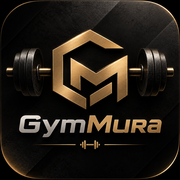
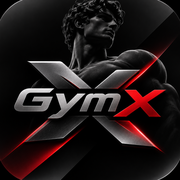
Add files via upload

diff --git a/index.html b/index.html
@@ -9,8 +9,9 @@
 <link href="https://diper12.github.io/Gym-plan/icon-180.png" rel="apple-touch-icon"/>
 <link href="https://diper12.github.io/Gym-plan/icon-192.png" rel="icon" type="image/png"/>
 <link href="https://diper12.github.io/Gym-plan/manifest.webmanifest" rel="manifest"/>
-<meta content="GymMura" name="apple-mobile-web-app-title"/>
+<meta content="GymX" name="apple-mobile-web-app-title"/>
 <title>План набора массы</title>
+<link href="https://fonts.googleapis.com/css2?family=Noto+Serif:ital,wght@1,500;1,600&display=swap" rel="stylesheet">
 <link href="https://fonts.googleapis.com" rel="preconnect"/>
 <link crossorigin="" href="https://fonts.gstatic.com" rel="preconnect"/>
 <link href="https://fonts.googleapis.com/css2?family=Manrope:wght@400;500;700;800&amp;family=Amiri:wght@400;700&amp;family=Unbounded:wght@700&amp;display=swap" rel="stylesheet"/>
@@ -125,12 +126,17 @@ a[x-apple-data-detectors]{color:inherit!important;text-decoration:none!important
 .consent input{margin-top:4px;width:18px;height:18px;flex:none}
 .consent a{color:var(--ac);font-weight:700}
 .signout{margin-top:14px}
-</style>
+.wgrid{display:grid;grid-template-columns:repeat(auto-fill,minmax(138px,1fr));gap:10px;margin-top:8px}
+.wtile{background:linear-gradient(160deg,rgba(255,255,255,.07),rgba(0,0,0,.28));border:1px solid var(--bd);border-radius:16px;padding:12px;display:flex;flex-direction:column;gap:4px;align-items:flex-start}
+.wtile small{color:var(--mu);font-size:12px}
+.wtile b{font-family:'Unbounded','Manrope',sans-serif;font-size:20px;letter-spacing:-.01em;margin-bottom:4px}
+.wtile .pill{font-size:12px;padding:5px 12px}
+#greet.en,.top h1.gr.en{font-family:'Noto Serif',Georgia,serif;font-style:italic;font-weight:600;letter-spacing:0;font-size:25px!important}</style>
 </head>
 <body>
 <section id="auth" class="auth">
 <div class="glass auth-card">
-<h1 class="gr">GymMura</h1>
+<h1 class="gr">GymX</h1>
 <p class="mu" id="aus">Подключаю облако…</p>
 <button class="btn w" id="ab" type="button" disabled>Войти через Google</button>
 <label id="csw" class="consent" hidden><input type="checkbox" id="cs"><span>Я прочитал(а) <a href="privacy.html">политику конфиденциальности</a> и согласен(на) на обработку перечисленных в ней данных.</span></label>
@@ -139,7 +145,7 @@ a[x-apple-data-detectors]{color:inherit!important;text-decoration:none!important
 <p class="mu sm" id="chk"></p>
 </div>
 </section>
-<div class="app" hidden><header class="top"><div class="hd"><h1 class="gr" id="greet"><span class="gico" id="gico" hidden><svg viewBox="0 0 24 24" aria-hidden="true"><path d="M6 7v10M18 7v10M3 9v6M21 9v6M6 12h12"/></svg></span><span id="gtxt">Ас-Саляму Алейкум</span></h1><div class="mu" id="sub">Твой план набора массы · <span id="dt"></span></div></div></header><section class="page" id="pg-plan"><section class="glass"><div class="goal"><div class="mu sm">Цель</div><h3>Набор массы</h3><div class="mu">Больше силы. Больше мышц. Лучше ты.</div>
+<div class="app" hidden><header class="top"><div class="hd"><h1 class="gr" id="greet"><span class="gico" id="gico" hidden><svg viewBox="0 0 24 24" aria-hidden="true"><path d="M6 7v10M18 7v10M3 9v6M21 9v6M6 12h12"/></svg></span><span id="gtxt">As Salam Alaikum</span></h1><div class="mu" id="sub">Твой план набора массы · <span id="dt"></span></div></div></header><section class="page" id="pg-plan"><section class="glass"><div class="goal"><div class="mu sm">Цель</div><h3>Набор массы</h3><div class="mu">Больше силы. Больше мышц. Лучше ты.</div>
 <div class="trio"><div class="mini"><span>Текущий вес</span><b id="cw">68 кг</b></div><div class="mini"><span>Целевой вес</span><b id="tg">—</b></div><div class="mini"><span>Срок</span><b id="sr">—</b></div></div></div></section><div class="stats">
 <div class="glass stat"><span class="mu sm">Тренировок в неделю</span><b>4 из 7</b><div class="seg"><i class="on"></i><i class="on"></i><i class="on"></i><i class="on"></i><i></i><i></i><i></i></div></div>
 <div class="glass stat"><span class="mu sm">Калорийность</span><b id="kc">—</b><span class="mu sm">ккал в день</span></div>
@@ -172,16 +178,13 @@ a[x-apple-data-detectors]{color:inherit!important;text-decoration:none!important
 <div class="two" style="margin-top:12px"><div><svg aria-label="График веса" class="ch" id="wch" role="img" viewbox="0 0 320 140"></svg></div>
 <div><svg aria-label="Диаграмма тренировок по неделям" class="ch" id="sch" role="img" viewbox="0 0 320 140"></svg></div></div>
 <div class="mu sm" id="wavg" style="margin-top:6px"></div>
-<div class="lb" style="margin-top:14px">Записи веса</div><div class="mu sm" id="wl">Пока нет записей.</div>
+<div class="lb" style="margin-top:14px">Записи веса</div><div class="wgrid" id="wl">Пока нет записей.</div>
 </section><section class="glass" id="diary"><h2>Дневник</h2>
 <div class="lb">Запись тренировки</div>
 <div class="row"><select aria-label="День" id="ld"></select><button class="btn" id="lb" type="button">Сохранить запись</button></div>
 <textarea aria-label="Запись тренировки" id="lt" placeholder="Например: жим лёжа 40 кг × 8 / 8 / 7 / 6. Кисть: норм"></textarea>
 <div id="ll"></div>
 <div class="mu sm" id="tst" style="margin-top:8px"></div>
-<div class="warn" hidden="" id="bw" style="margin:10px 0"></div>
-<div class="row"><button class="btn o" id="bd" type="button">Скачать копию</button><button class="btn o" id="bc" type="button">Скопировать текст</button><button class="btn o" id="br" type="button">Восстановить</button></div>
-<div hidden="" id="rb"><textarea aria-label="Текст копии" id="rt" placeholder="Вставь сюда текст копии"></textarea><div class="row"><button class="btn o" id="ri" type="button">Загрузить текст</button><button class="btn o" id="rf" type="button">Выбрать файл</button><input accept=".json,application/json" hidden="" id="bf" type="file"/></div></div>
 </section></section><section class="page" id="pg-prof"><section class="glass" id="prof"><h2>Мой профиль</h2>
 <div class="mu sm">Текущий вес и желаемый вес. Остальное приложение посчитает само.</div>
 <div class="row"><input id="pw" placeholder="Текущий вес, кг" step="0.1" type="number"/><input id="pg" placeholder="Желаемый вес, кг" step="0.1" type="number"/></div>
@@ -277,7 +280,7 @@ function draw(){
   if(w.length>1)el('polyline',{points:p.map(function(a){return a.join(',')}).join(' '),fill:'none',stroke:'#e9c7a6','stroke-width':2.5});
   p.forEach(function(a,i){el('circle',{cx:a[0],cy:a[1],r:4,fill:'#e9c7a6'});el('text',{x:a[0],y:a[1]-9,fill:'#f2ece4','font-size':14,'font-weight':700,'text-anchor':'middle'},w[i].kg)})}
  var wl=$('wl');wl.innerHTML=w.length?'':'Пока нет записей.';
- w.slice().reverse().slice(0,8).forEach(function(r){var d=document.createElement('div');d.className='log wrow';var s=document.createElement('span');s.textContent=new Date(r.date+'T00:00:00').toLocaleDateString('ru-RU')+' — '+r.kg+' кг';var x=document.createElement('button');x.type='button';x.className='x pill';x.textContent='Удалить';x.setAttribute('aria-label','Удалить запись веса '+r.kg);x.onclick=function(){if(x.dataset.s==='1'){rm(r.id);return}x.dataset.s='1';x.textContent='Точно удалить?';x.classList.add('arm');setTimeout(function(){if(x.isConnected){x.dataset.s='';x.textContent='Удалить';x.classList.remove('arm')}},4000)};d.appendChild(s);d.appendChild(x);wl.appendChild(d)});
+ w.slice().reverse().forEach(function(r){var t=document.createElement('div');t.className='wtile';var dt=document.createElement('small');dt.textContent=new Date(r.date+'T00:00:00').toLocaleDateString('ru-RU',{day:'numeric',month:'short',year:'numeric'});var kg=document.createElement('b');kg.textContent=r.kg+' кг';var x=document.createElement('button');x.type='button';x.className='x pill';x.textContent='Удалить';x.setAttribute('aria-label','Удалить запись веса '+r.kg);x.onclick=function(){if(x.dataset.s==='1'){rm(r.id);return}x.dataset.s='1';x.textContent='Точно удалить?';x.classList.add('arm');setTimeout(function(){if(x.isConnected){x.dataset.s='';x.textContent='Удалить';x.classList.remove('arm')}},4000)};t.appendChild(dt);t.appendChild(kg);t.appendChild(x);wl.appendChild(t)});
  if(w.length){
   var av=w.map(function(r){var t0=new Date(r.date+'T00:00:00').getTime(),sel=w.filter(function(q){var t1=new Date(q.date+'T00:00:00').getTime();return t1<=t0&&t1>t0-6*864e5});return sel.reduce(function(s,q){return s+q.kg},0)/sel.length});
   el('polyline',{points:av.map(function(v,i){return (w.length>1?28+i*284/(w.length-1):170)+','+Y(v)}).join(' '),fill:'none',stroke:'#f2ece4','stroke-opacity':.55,'stroke-width':2,'stroke-dasharray':'3 4'});
@@ -292,7 +295,7 @@ var last=w[w.length-1];$('cw').textContent=last?last.kg+' кг':(prof?prof.kg+' 
  $('wc').textContent=wt.length+' / 4';$('wt').textContent=mn>=60?Math.floor(mn/60)+' ч '+(mn%60)+' мин':mn+' мин';$('wp').style.width=Math.min(wt.length/4,1)*100+'%';
  var L=rows.filter(function(r){return r.t==='l'}).sort(function(a,b){return b.ts-a.ts}).slice(0,12),box=$('ll');box.innerHTML='';
  L.forEach(function(r){var d=document.createElement('div');d.className='log';var sm=document.createElement('small');sm.textContent=r.day+' · '+new Date(r.ts).toLocaleDateString('ru-RU');var x=document.createElement('button');x.type='button';x.className='x pill';x.textContent='Удалить';x.setAttribute('aria-label','Удалить запись');x.onclick=function(){if(x.dataset.s==='1'){rm(r.id);return}x.dataset.s='1';x.textContent='Точно удалить?';x.classList.add('arm');setTimeout(function(){if(x.isConnected){x.dataset.s='';x.textContent='Удалить';x.classList.remove('arm')}},4000)};sm.appendChild(x);var sp=document.createElement('span');sp.textContent=r.text;d.appendChild(sm);d.appendChild(sp);box.appendChild(d)});
- warn()}
+ if(window.gpBackup)window.gpBackup(rows).catch(function(){});warn()}
 $('pb').onclick=function(){
  var kg=parseFloat($('pw').value.replace(',','.')),g=parseFloat($('pg').value.replace(',','.')),hh=parseFloat($('ph').value),aa=parseInt($('pa').value,10),s=$('ps').value,d=parseInt($('pd').value,10)||4;
  var msg=function(t){$('pm').textContent=t};
@@ -335,22 +338,8 @@ function tick(){var s=st?Math.floor((Date.now()-st)/1000):0,m=Math.floor(s/60);
 $('ts').onclick=function(){if(!st){st=Date.now();try{localStorage.setItem(TK,st)}catch(e){}}else{var min=Math.round((Date.now()-st)/60000);if(min>=1)put({id:'t'+st,t:'t',ts:st,min:min});st=0;try{localStorage.removeItem(TK)}catch(e){}}tick()};
 setInterval(tick,1000);tick();
 
-/* копии */
-function payload(){return JSON.stringify({app:'gym-plan',v:2,at:new Date().toISOString(),rows:rows})}
-function mark(){try{localStorage.setItem(LS+'_bk',String(Date.now()))}catch(e){}warn()}
-function warn(){var b=$('bw'),k=0;try{k=+localStorage.getItem(LS+'_bk')||0}catch(e){}
- if(rows.length&&(!k||Date.now()-k>6048e5)){b.hidden=false;b.textContent=k?'Копия старше 7 дней. Нажми «Скачать копию».':'Резервной копии ещё нет. Нажми «Скачать копию» и сохрани файл.'}else b.hidden=true}
-$('bd').onclick=function(){var a=document.createElement('a');a.href=URL.createObjectURL(new Blob([payload()],{type:'application/json'}));a.download='gym-plan-backup-'+new Date().toISOString().slice(0,10)+'.json';document.body.appendChild(a);a.click();a.remove();mark()};
-$('bc').onclick=function(){var s=payload();if(navigator.clipboard&&navigator.clipboard.writeText){navigator.clipboard.writeText(s).then(function(){mark();$('tst').textContent='Копия скопирована. Вставь её в заметки.'},function(){$('rt').value=s;$('rb').hidden=false})}else{$('rt').value=s;$('rb').hidden=false}};
-$('br').onclick=function(){$('rb').hidden=!$('rb').hidden};
-function imp(s){try{var o=JSON.parse(s);if(!o||!Array.isArray(o.rows))throw 0;var c=0;o.rows.forEach(function(r){if(!r||typeof r.id!=='string')return;
- if(r.t==='w'&&typeof r.date==='string'&&typeof r.kg==='number'&&r.kg>30&&r.kg<200){put({id:r.id,t:'w',date:r.date,kg:r.kg});c++}
- else if(r.t==='l'&&typeof r.ts==='number'&&typeof r.text==='string'){put({id:r.id,t:'l',ts:r.ts,day:String(r.day||'').slice(0,3),text:r.text.slice(0,1500)});c++}
- else if(r.t==='t'&&typeof r.ts==='number'&&typeof r.min==='number'){put({id:r.id,t:'t',ts:r.ts,min:r.min});c++}
- else if(r.t==='p'&&typeof r.kg==='number'&&typeof r.goal==='number'){put({id:'profile',t:'p',kg:r.kg,goal:r.goal,h:r.h||null,a:r.a||null,s:r.s||null,d:r.d||null});c++}});
- $('tst').textContent='Записи восстановлены: '+c+'.';$('rb').hidden=true}catch(e){$('tst').textContent='Не удалось прочитать копию.'}}
-$('ri').onclick=function(){imp($('rt').value)};$('rf').onclick=function(){$('bf').click()};
-$('bf').onchange=function(){var f=this.files[0];if(!f)return;var r=new FileReader();r.onload=function(){imp(r.result)};r.readAsText(f)};
+function warn(){}
+function mark(){}
 try{if(navigator.storage&&navigator.storage.persist)navigator.storage.persist()}catch(e){}
 
 /* вкладки */
@@ -360,7 +349,8 @@ try{if(navigator.storage&&navigator.storage.persist)navigator.storage.persist()}
   order.forEach(function(k){var el=document.getElementById('pg-'+k);if(el)el.hidden=(k!==p)});
   [].forEach.call(document.querySelectorAll('.tabbar button'),function(b){b.setAttribute('aria-selected',String(b.getAttribute('data-p')===p))});
   var nav=document.querySelector('.tabbar');if(nav)nav.style.setProperty('--i',order.indexOf(p));
-  document.getElementById('gtxt').textContent=(p==='plan')?'Ас-Саляму Алейкум':'GymMura';
+  document.getElementById('gtxt').textContent=(p==='plan')?'As Salam Alaikum':'GymX';
+  document.getElementById('greet').classList.toggle('en',p==='plan');
   document.getElementById('gico').hidden=(p==='plan');
   document.getElementById('sub').hidden=(p!=='plan');
   window.scrollTo(0,0);
@@ -406,7 +396,14 @@ try{
  let db;
  try{db=F.initializeFirestore(app,{localCache:F.persistentLocalCache({tabManager:F.persistentMultipleTabManager()})})}catch(e){db=F.getFirestore(app)}
  window.gpSignOut=()=>U.signOut(auth);
- window.gpWipe=async function(){if(!auth.currentUser)return;const s=await F.getDocs(F.collection(db,'users',auth.currentUser.uid,'entries'));await Promise.all(s.docs.map(function(d){return F.deleteDoc(d.ref)}))};
+ window.gpWipe=async function(){if(!auth.currentUser)return;const uid=auth.currentUser.uid;const s=await F.getDocs(F.collection(db,'users',uid,'entries'));await Promise.all(s.docs.map(function(d){return F.deleteDoc(d.ref)}));const bk=await F.getDocs(F.collection(db,'users',uid,'backups'));await Promise.all(bk.docs.map(function(d){return F.deleteDoc(d.ref)}))};
+window.gpBackup=async function(rows){
+ if(!auth.currentUser||!rows||!rows.length)return;
+ const d=new Date(),id=d.getFullYear()+'-'+('0'+(d.getMonth()+1)).slice(-2)+'-'+('0'+d.getDate()).slice(-2),key='gp1_bk_'+auth.currentUser.uid+'_'+id;
+ try{if(localStorage.getItem(key))return}catch(e){}
+ await F.setDoc(F.doc(db,'users',auth.currentUser.uid,'backups',id),{ts:Date.now(),count:rows.length,rows:JSON.stringify(rows)});
+ try{localStorage.setItem(key,'1')}catch(e){}
+};
  $('ab').disabled=false;
  $('ab').onclick=async()=>{
   if(auth.currentUser){await U.signOut(auth);return}

diff --git a/admin.html b/admin.html
@@ -9,7 +9,7 @@
 <link rel="apple-touch-icon" href="icon-180.png">
 <link rel="icon" type="image/png" href="icon-192.png">
 <link rel="manifest" href="manifest.webmanifest">
-<meta name="apple-mobile-web-app-title" content="GymMura">
+<meta name="apple-mobile-web-app-title" content="GymX">
 <title>Заявки</title>
 <link rel="preconnect" href="https://fonts.googleapis.com">
 <link rel="preconnect" href="https://fonts.gstatic.com" crossorigin>

diff --git a/login.html b/login.html
@@ -4,10 +4,10 @@
 <meta charset="utf-8">
 <meta name="robots" content="noindex">
 <meta http-equiv="refresh" content="0; url=./">
-<title>GymMura</title>
+<title>GymX</title>
 </head>
 <body>
-<p><a href="./">Открыть GymMura</a></p>
+<p><a href="./">Открыть GymX</a></p>
 <script>location.replace('./');</script>
 </body>
 </html>
